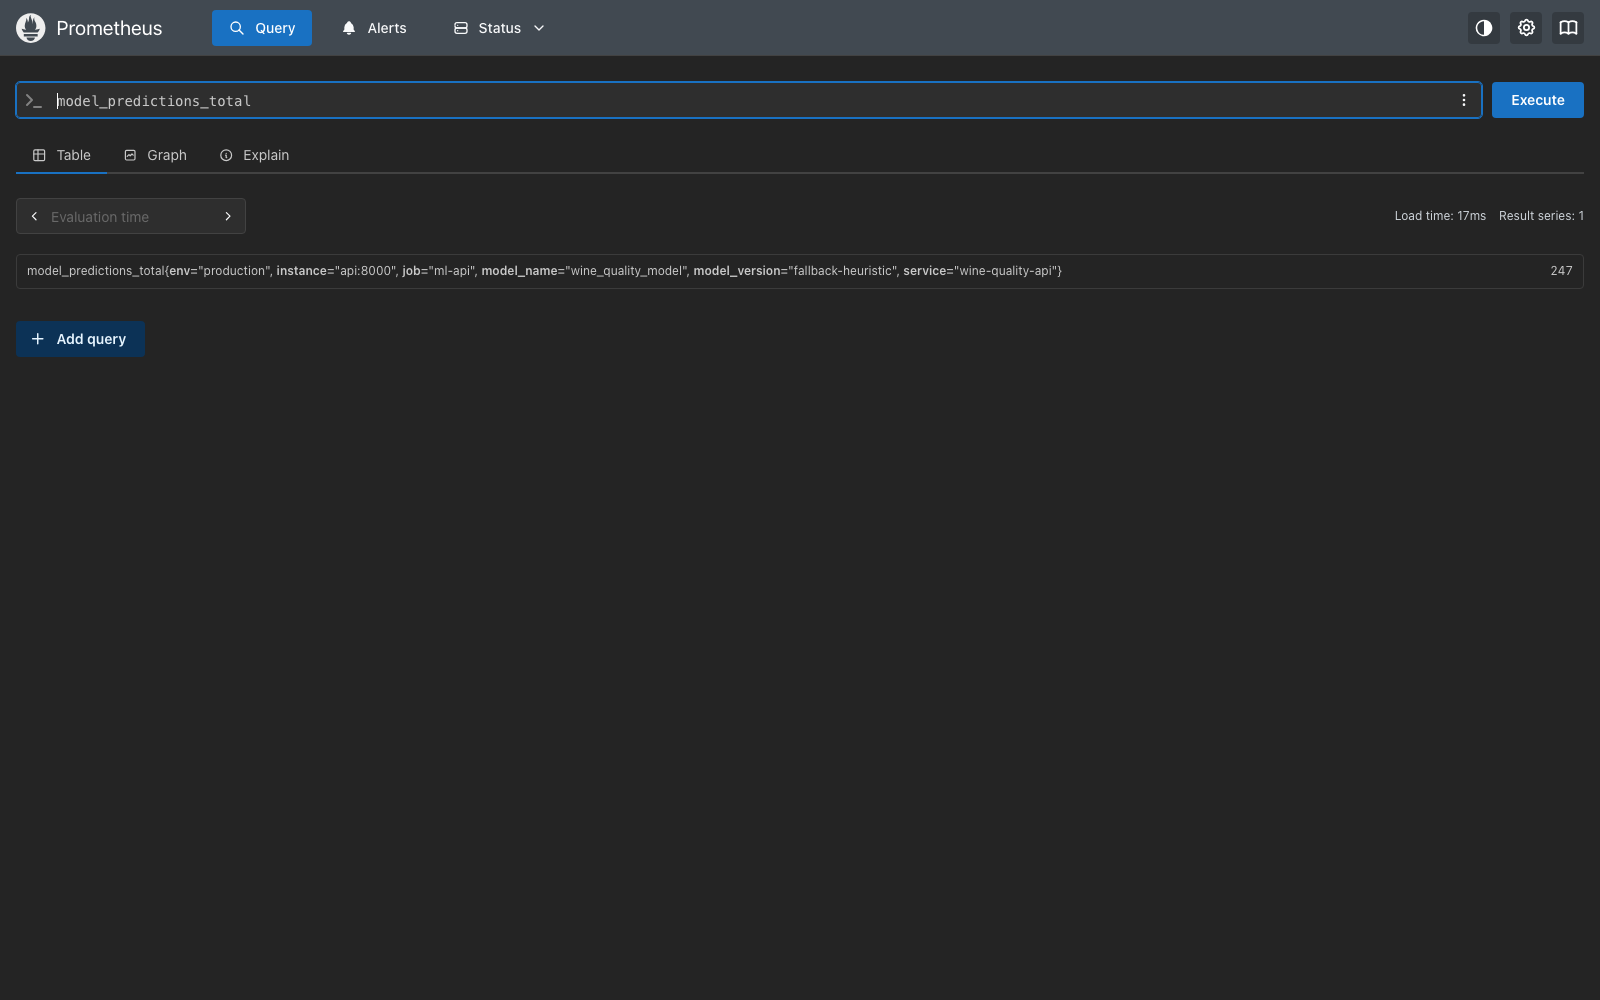
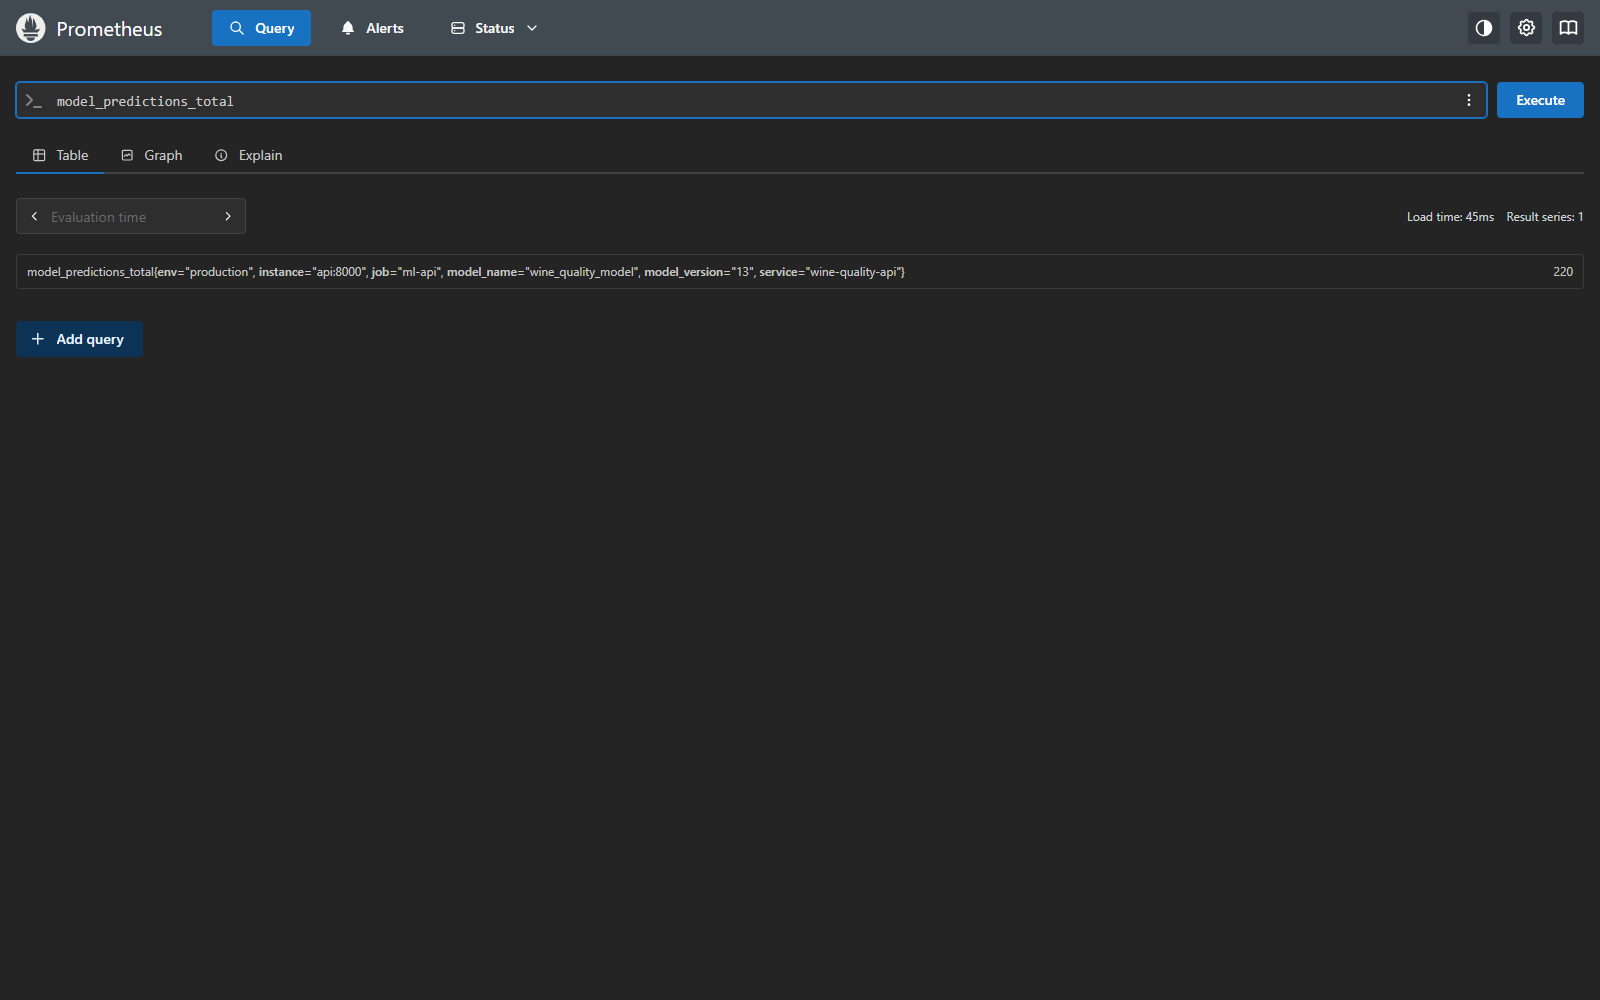
Chạy lại app, sửa lỗi và cập nhật evidence

diff --git a/src/train.py b/src/train.py
@@ -103,7 +103,9 @@ def train_and_track_experiment(
         mlflow.sklearn.log_model(
             sk_model=model,
             artifact_path="model",
-            signature=signature
+            signature=signature,
+            # Newer MLflow defaults to skops, which rejects tree-based estimators
+            serialization_format="cloudpickle"
         )
 
         if register_model_name:

diff --git a/README.md b/README.md
@@ -237,7 +237,7 @@ graph LR
 *Figure 4.4: Prometheus scraping targets (port 9090) verifying healthy `UP` state across `api`, `evidently`, and `prometheus`.*
 
 ![Prometheus Metrics](evidences/06_prometheus_metrics.png)
-*Figure 4.5: Prometheus time-series query tracking `model_predictions_total` with 247 production inferences recorded.*
+*Figure 4.5: Prometheus time-series query tracking `model_predictions_total` with 220 production inferences recorded.*
 
 #### MinIO S3 Object Storage & Grafana Dashboards
 - Pre-provisioned dashboards loaded automatically on startup:
@@ -300,6 +300,7 @@ pytest tests/ -v
 ```bash
 python scripts/run_experiments.py
 ```
+> On Windows, set `PYTHONUTF8=1` first (MLflow prints emoji the default console encoding can't handle).
 
 ### 3. Launch Full Docker Stack
 ```bash
@@ -323,7 +324,7 @@ docker compose ps
 - **Prometheus UI:** [http://localhost:9090](http://localhost:9090)
 - **Grafana Dashboards:** [http://localhost:3000](http://localhost:3000) *(User: `admin`, Password: `admin`)*
 - **MinIO Console:** [http://localhost:9001](http://localhost:9001) *(User: `minioadmin`, Password: `miniopassword`)*
-- **Airflow Webserver:** [http://localhost:8080](http://localhost:8080)
+- **Airflow Webserver:** [http://localhost:8080](http://localhost:8080) *(User: `admin`, Password: `admin`)*
 
 ---
 
@@ -338,11 +339,12 @@ All live service components have been rigorously verified and captured in the [`
 | 3 | [`03_mlflow_experiments.png`](#3-mlflow-experiment-tracking-runs-table) | **MLflow Tracking Server** (`:5050`) | Complete 10-model experiment matrix logged with metrics |
 | 4 | [`04_mlflow_model_registry.png`](#4-mlflow-model-registry--stage-promotion) | **MLflow Model Registry** | `wine_quality_model` versions and champion `@production` promotion |
 | 5 | [`05_prometheus_targets.png`](#5-prometheus-scraping-targets) | **Prometheus Targets** (`:9090`) | All 3 service targets healthy in `UP` 1/1 state |
-| 6 | [`06_prometheus_metrics.png`](#6-prometheus-live-production-metrics) | **Prometheus Live Metrics** | `model_predictions_total` with 247 real production inferences |
+| 6 | [`06_prometheus_metrics.png`](#6-prometheus-live-production-metrics) | **Prometheus Live Metrics** | `model_predictions_total` with 220 real production inferences |
 | 7 | [`07_evidently_drift_report.png`](#7-evidently-ai-interactive-drift-report) | **Evidently HTML Report** | Statistical dataset drift detected via Wasserstein distance |
 | 8 | [`08_minio_console.png`](#8-minio-high-performance-s3-storage-console) | **MinIO S3 Object Storage** (`:9001`) | S3 artifact buckets for MLflow models and pipelines |
 | 9 | [`09_grafana_ui.png`](#9-grafana-observability-portal) | **Grafana Dashboards** (`:3000`) | Observability portal for service latency and throughput |
 | 10 | [`10_confusion_matrix.png`](#10-pipeline-model-evaluation-confusion-matrix) | **Model Evaluation Artifact** | Test set confusion matrix plot generated during pipeline evaluation |
+| 11 | [`11_airflow_dag_run.png`](#11-airflow-dag-run) | **Airflow Orchestrator** (`:8080`) | `wine_quality_mlops_pipeline` run with all 6 tasks successful |
 
 ---
 
@@ -403,4 +405,10 @@ Visualization portal for monitoring API latency, prediction volume, error rates,
 ### 10. Pipeline Model Evaluation Confusion Matrix
 Confusion matrix visual artifact automatically computed and stored during the model evaluation pipeline step.
 ![Confusion Matrix](evidences/10_confusion_matrix.png)
+
+---
+
+### 11. Airflow DAG Run
+Graph view of a `wine_quality_mlops_pipeline` run: ingest, validate, preprocess, train, gate & promote, and drift-baseline sync all completed successfully.
+![Airflow DAG Run](evidences/11_airflow_dag_run.png)
 
